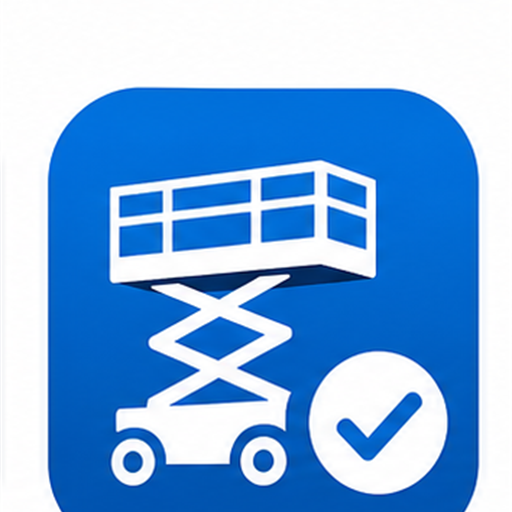
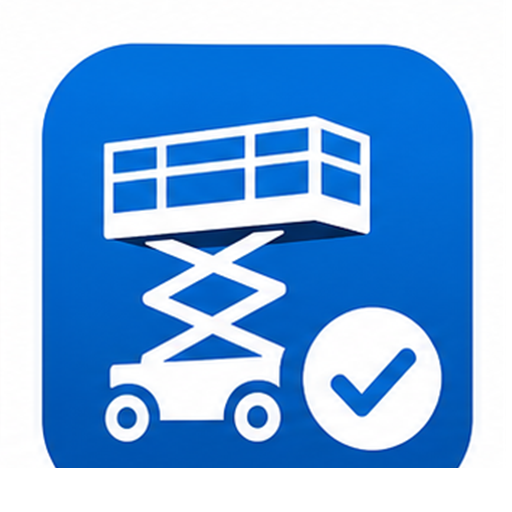
Fix revize wizard suggestions

diff --git a/index.html b/index.html
@@ -62,7 +62,7 @@ button{border:none;border-radius:14px;padding:11px 14px;cursor:pointer;font-weig
 input::placeholder, textarea::placeholder{color:#334155;font-weight:600;font-size:1rem;opacity:1} textarea{min-height:110px;resize:vertical}
 .suggest-wrap{position:relative}.suggest-box{position:absolute;left:0;right:0;top:calc(100% + 8px);border:1px solid var(--line);border-radius:14px;background:#fff;max-height:220px;overflow:auto;box-shadow:0 10px 24px rgba(15,23,42,.08);z-index:20}.suggest-item{padding:10px 12px;cursor:pointer;border-bottom:1px solid #eef2f7;font-size:.95rem}.suggest-item:last-child{border-bottom:none}.suggest-item:hover{background:#f8fbff}.helper{font-size:.8rem;color:var(--muted);margin-top:6px}
 .smart-suggest-wrap{position:relative;overflow:visible}.smart-suggest-box{position:absolute;left:0;right:0;top:calc(100% + 6px);display:none;max-height:168px;overflow:auto;-webkit-overflow-scrolling:touch;background:#fff;border:1px solid var(--line);border-radius:14px;box-shadow:0 12px 26px rgba(15,23,42,.18);z-index:[phone redacted]}.smart-suggest-box.show{display:block}.smart-suggest-box.mobile-floating{position:fixed!important;right:auto!important;top:auto;bottom:auto;z-index:[phone redacted]!important;max-height:180px!important}.smart-suggest-item{padding:10px 12px;border-bottom:1px solid #eef2f7;cursor:pointer;font-size:.92rem;line-height:1.25;background:#fff}.smart-suggest-item:last-child{border-bottom:none}.smart-suggest-item:hover{background:#f8fbff}.smart-suggest-muted{padding:9px 12px;color:var(--muted);font-size:.86rem}.field textarea + .smart-suggest-box{top:calc(100% + 6px)}body.dark .smart-suggest-box{background:#0f172a;border-color:var(--line)}body.dark .smart-suggest-item{background:#0f172a;border-bottom-color:#243244}body.dark .smart-suggest-item:hover{background:#172033}
-/* v1.6 / 5.157 – našeptávač přímo pod polem jako světlý oddělený seznam */
+/* v1.6 / 5.158 – našeptávač přímo pod polem jako světlý oddělený seznam */
 .smart-suggest-wrap{position:relative!important;overflow:visible!important}
 .smart-suggest-box{position:absolute!important;left:0!important;right:0!important;top:calc(100% + 6px)!important;bottom:auto!important;display:none;max-height:210px;overflow-y:auto;overflow-x:hidden;-webkit-overflow-scrolling:touch;background:#f1f5f9!important;border:1px solid #cbd5e1!important;border-radius:14px!important;box-shadow:0 14px 32px rgba(15,23,42,.18)!important;z-index:2147483647!important}
 .smart-suggest-box.show{display:block!important}
@@ -1536,7 +1536,7 @@ body.dark .part-handler-note-display{background:rgba(59,130,246,.12);border-colo
 
 
 
-/* v1.6 / 5.157: mobilní náhled protokolu bez vodorovného posouvání */
+/* v1.6 / 5.158: mobilní náhled protokolu bez vodorovného posouvání */
 @media (max-width: 700px){
   #preview .modal-content{
     width:100vw!important;
@@ -1675,11 +1675,12 @@ body.dark .part-handler-note-display{background:rgba(59,130,246,.12);border-colo
 .easter-game.playing .easter-start{display:none}
 @media(max-width:640px){.easter-hud{align-items:flex-start}.easter-title{font-size:.82rem}.easter-pill{font-size:.76rem;padding:6px 8px}.easter-close{left:14px;right:14px}}
 
-/* v1.6 / 5.157: Revize ZZ / PZP */
+/* v1.6 / 5.158: Revize ZZ / PZP */
 .revize-toolbar{display:flex;gap:10px;flex-wrap:wrap;align-items:center;margin:0 0 14px}.revize-toolbar .search{min-width:min(100%,280px)}
 .revize-archive-head{border:1px solid var(--line);background:linear-gradient(180deg,#f8fbff,#eef6ff);border-radius:10px;padding:10px 12px;margin:12px 0 10px}.dark .revize-archive-head{background:#111827}.revize-archive-head .step-title{margin:2px 0 3px;font-size:1.02rem}
 .revize-stepbar{display:flex;align-items:center;justify-content:space-between;gap:10px;border:1px solid var(--line);background:#f8fbff;border-radius:10px;padding:9px 11px;margin:0 0 12px}.dark .revize-stepbar{background:#111827}.revize-stepbar strong{font-size:.95rem}.revize-stepbar span{color:var(--muted);font-size:.82rem}.revize-step-controls{display:flex;gap:8px;align-items:center;justify-content:flex-end;flex-wrap:wrap}.revize-step-progress{min-width:72px;text-align:center;color:var(--muted);font-size:.85rem}.rz-hidden-step{display:none!important}
-.revize-wizard-modal .modal-content{width:min(100%,760px)}.revize-wizard-modal .revize-form{display:block;border:0;box-shadow:none;border-radius:0;margin:0;padding:22px;background:linear-gradient(180deg,#fff 0%,#f9fbff 100%)}.dark .revize-wizard-modal .revize-form{background:linear-gradient(180deg,#111827 0%,#0f172a 100%)}.revize-wizard-modal #revizeFormWrap>h3,.revize-wizard-modal #revizeFormWrap>.helper{display:none}.revize-wizard-modal .revize-form-grid{grid-template-columns:1fr}.revize-wizard-modal .revize-section-title{margin:0 0 10px;padding:0;border:0;background:transparent;color:var(--text);font-size:1.28rem;text-transform:none;letter-spacing:0}.dark .revize-wizard-modal .revize-section-title{background:transparent;color:var(--text)}.revize-wizard-modal .field{margin-top:0}.revize-wizard-modal .field label{display:none}.revize-wizard-modal .preview-actions{margin-top:18px}.revize-wizard-modal .revize-stepbar{margin-bottom:14px}.revize-wizard-placeholder{display:none}
+.revize-wizard-modal .modal-content{width:min(96vw,860px);max-height:min(94dvh,820px)}.revize-wizard-modal .revize-form{display:block;border:0;box-shadow:none;border-radius:0;margin:0;padding:22px;background:linear-gradient(180deg,#fff 0%,#f9fbff 100%)}.dark .revize-wizard-modal .revize-form{background:linear-gradient(180deg,#111827 0%,#0f172a 100%)}.revize-wizard-modal #revizeFormWrap>h3,.revize-wizard-modal #revizeFormWrap>.helper{display:none}.revize-wizard-modal .revize-form-grid{grid-template-columns:1fr}.revize-wizard-modal .revize-section-title{margin:0 0 10px;padding:0;border:0;background:transparent;color:var(--text);font-size:1.28rem;text-transform:none;letter-spacing:0}.dark .revize-wizard-modal .revize-section-title{background:transparent;color:var(--text)}.revize-wizard-modal .field{margin-top:0}.revize-wizard-modal .field label{display:none}.revize-wizard-modal .preview-actions{margin-top:18px}.revize-wizard-modal .revize-stepbar{margin-bottom:14px}.revize-wizard-placeholder{display:none}
+@media(max-width:640px){.revize-wizard-modal{padding:8px!important}.revize-wizard-modal .modal-content{width:100%;max-height:calc(100dvh - 16px)}.revize-wizard-modal .revize-form{padding:16px}.revize-wizard-modal .preview-actions-right{display:grid;grid-template-columns:1fr 1fr;width:100%}.revize-wizard-modal .preview-actions-right button{width:100%}}
 .revize-form{border:1px solid var(--line);background:#fff;border-radius:12px;padding:14px;margin:12px 0 16px;box-shadow:0 10px 28px rgba(15,47,95,.08)}
 .dark .revize-form{background:#0f172a}.revize-form-grid{display:grid;grid-template-columns:repeat(4,minmax(0,1fr));gap:10px}.revize-form-grid .wide{grid-column:span 2}.revize-form-grid .full{grid-column:1/-1}
 .revize-section-title{grid-column:1/-1;margin:8px 0 0;padding:7px 9px;border-left:4px solid var(--brand);background:#eff6ff;color:#0f2f5f;font-weight:900;font-size:.82rem;text-transform:uppercase;letter-spacing:.04em}.dark .revize-section-title{background:#172554;color:#dbeafe}
@@ -1687,7 +1688,7 @@ body.dark .part-handler-note-display{background:rgba(59,130,246,.12);border-colo
 @media(max-width:900px){.revize-form-grid{grid-template-columns:1fr}.revize-form-grid .wide{grid-column:auto}.revize-check-row{grid-template-columns:1fr}.revize-paper{width:100%;min-height:auto;padding:12px;box-shadow:none}.revize-toolbar .search{min-width:0;flex:1}}
 @media print{body.printing-revize header,body.printing-revize aside,body.printing-revize .container,body.printing-revize .preview-actions{display:none!important}.revize-paper{box-shadow:none;margin:0;padding:8mm;page-break-after:always}}
 
-/* v1.6 / 5.157: Revize ZZ tisknout jako přesné dvě čitelné A4 strany bez křížků/fajfek. */
+/* v1.6 / 5.158: Revize ZZ tisknout jako přesné dvě čitelné A4 strany bez křížků/fajfek. */
 .revize-paper{box-sizing:border-box;display:flex;flex-direction:column;gap:4px;min-height:297mm}
 .revize-paper table{table-layout:fixed;margin:0 0 4px;break-inside:avoid;page-break-inside:avoid}
 .revize-paper tr{break-inside:avoid;page-break-inside:avoid}
@@ -1707,7 +1708,7 @@ body.dark .part-handler-note-display{background:rgba(59,130,246,.12);border-colo
   .revize-paper:last-child{page-break-after:auto!important;break-after:auto!important}
 }
 
-/* v1.6 / 5.157: stable CSS icons, mobile overflow and cloud-save feedback */
+/* v1.6 / 5.158: stable CSS icons, mobile overflow and cloud-save feedback */
 html,body{max-width:100%;overflow-x:hidden;-webkit-text-size-adjust:100%}
 img,svg,canvas,video{max-width:100%}
 .container,.page-section,.modal,.modal-content,.wizard-shell,.preview-shell,#content,.field,.suggest-wrap,.wizard-actions,.preview-actions,.preview-actions-left,.preview-actions-right{max-width:100%;min-width:0;box-sizing:border-box}
@@ -1720,13 +1721,13 @@ input,textarea,select,button{max-width:100%;min-width:0;box-sizing:border-box}
 .mark-box{width:14px;height:14px;border:1.7px solid #111;border-radius:2px;vertical-align:middle;position:relative;background:#fff}.mark-box.checked{background:#111}
 @media(max-width:640px){.modal{align-items:flex-start;justify-content:center;overflow-y:auto;-webkit-overflow-scrolling:touch;padding:calc(env(safe-area-inset-top,0px) + 10px) max(8px,env(safe-area-inset-right)) calc(env(safe-area-inset-bottom,0px) + 12px) max(8px,env(safe-area-inset-left))}.modal-content{width:100%;max-height:none!important;overflow:visible!important;border-radius:16px}.wizard-shell,.preview-shell{padding:16px}.wizard-actions{position:sticky;bottom:0;z-index:4;margin-left:-16px;margin-right:-16px;padding:14px 16px calc(env(safe-area-inset-bottom,0px) + 8px);background:linear-gradient(180deg,rgba(255,255,255,0) 0%,var(--panel) 22%)}.wizard-actions>div{display:grid!important;grid-template-columns:minmax(0,1fr) minmax(0,1fr);width:100%}.wizard-actions button{min-height:46px}#preview.modal.show{display:block!important;overflow-y:auto!important;-webkit-overflow-scrolling:touch!important;align-items:initial!important;justify-content:initial!important}#preview .modal-content{margin:0 auto 20px;max-height:none!important;overflow:visible!important}#preview .preview-shell,#preview .paper-wrap,#previewBody{overflow:visible!important;max-height:none!important}#preview .paper-page{min-height:auto!important;height:auto!important;overflow:visible!important;padding:8mm 5mm!important}.home-machine-search-row,.toolbar-right{min-width:0}.search,.filter{min-width:0;width:100%}}
 
-/* v1.6 / 5.157: náhled protokolu se na PC i mobilu posouvá celým oknem náhledu, ne zamčeným vnitřním panelem. */
+/* v1.6 / 5.158: náhled protokolu se na PC i mobilu posouvá celým oknem náhledu, ne zamčeným vnitřním panelem. */
 #preview.modal.show{display:block!important;align-items:initial!important;justify-content:initial!important;height:100dvh!important;max-height:100dvh!important;overflow-y:auto!important;overflow-x:hidden!important;-webkit-overflow-scrolling:touch!important;overscroll-behavior:contain!important;padding:18px!important;z-index:120!important}
 #preview .modal-content{margin:0 auto 24px!important;max-height:none!important;overflow:visible!important}
 #preview .preview-shell,#previewBody{max-height:none!important;overflow:visible!important}
 #preview .paper-wrap{max-height:none!important;overflow-x:auto!important;overflow-y:visible!important;-webkit-overflow-scrolling:touch}
 
-/* v1.6 / 5.157: hlavní obrazovka musí zůstat posuvná kolečkem myši i po zavření náhledů a her. */
+/* v1.6 / 5.158: hlavní obrazovka musí zůstat posuvná kolečkem myši i po zavření náhledů a her. */
 html,body{height:auto!important;min-height:100%!important;overflow-y:auto!important}
 body{position:relative!important}
 
@@ -1778,7 +1779,7 @@ body{position:relative!important}
     <button type="button" class="side-small" onclick="exportBackup()">Export zálohy</button>
     <button type="button" class="side-small" id="sideImportBtn">Import zálohy</button>
     <button type="button" class="side-small" id="sideAuditBtn">Historie změn</button>
-    <div class="side-version">Vlastník/Admin: Jan Bartoš<br>Verze: 1.6 / 5.157</div>
+    <div class="side-version">Vlastník/Admin: Jan Bartoš<br>Verze: 1.6 / 5.158</div>
   </div>
 </aside>
 
@@ -2851,7 +2852,7 @@ async function exportBackup(){
     }
     const payload = {
       app: 'LiftControl CZ',
-      appVersion: '1.6 / 5.157',
+      appVersion: '1.6 / 5.158',
       backupType: 'complete',
       schemaVersion: 2,
       exportedAt: new Date().toISOString(),
@@ -3171,21 +3172,22 @@ function addMonthsToDate(dateStr, months=3){ const [y,m,dayRaw]=String(dateStr |
 function escapeHtml(v=''){ return String(v).replace(/[&<>"']/g, s => ({'&':'&amp;','<':'&lt;','>':'&gt;','"':'&quot;',"'":'&#39;'}[s])); }
 function addSuggestion(key,val){ const clean = String(val||'').trim(); if(!clean || clean.length < 2) return; suggestionsStore[key] = suggestionsStore[key] || []; if(!suggestionsStore[key].includes(clean)) suggestionsStore[key].unshift(clean); suggestionsStore[key] = suggestionsStore[key].slice(0,20); }
 function getSuggestions(key,fallback=[]){ return [...new Set([...(suggestionsStore[key]||[]), ...fallback])]; }
+function normalizeSearchText(v){
+  return String(v||'').toLowerCase().normalize('NFD').replace(/[\u0300-\u036f]/g,'').replace(/\s+/g,'').trim();
+}
 function filterSuggestions(items,q){
-  q = String(q||'').trim().toLowerCase();
+  q = String(q||'').trim();
   if(!q) return [];
 
-  const normalize = (v) => String(v||'').toLowerCase().replace(/\s+/g,'').trim();
   const seen = new Set();
   const out = [];
-  const queryCompact = normalize(q);
+  const queryCompact = normalizeSearchText(q);
 
   for(const item of items){
     const raw = String(item||'');
-    const rawLower = raw.toLowerCase();
-    const rawCompact = normalize(raw);
+    const rawCompact = normalizeSearchText(raw);
 
-    if(!(rawLower.includes(q) || rawCompact.includes(queryCompact))) continue;
+    if(!rawCompact.includes(queryCompact)) continue;
     if(seen.has(rawCompact)) continue;
 
     seen.add(rawCompact);
@@ -3414,10 +3416,10 @@ installMainWheelScroll();
 function openWizard(editId=null, prefill={}){
   protocolSaveInProgress = false;
   if(els.nextBtn) els.nextBtn.disabled = false;
-  rec = editId ? JSON.parse(JSON.stringify(data.find(r=>r.id===editId) || {id:uid()})) : {id:uid(), cLogic:'legacy', appVersion:'1.6 / 5.157'};
+  rec = editId ? JSON.parse(JSON.stringify(data.find(r=>r.id===editId) || {id:uid()})) : {id:uid(), cLogic:'legacy', appVersion:'1.6 / 5.158'};
   rec = Object.assign({}, rec, prefill || {});
   if(!editId && !rec.cLogic) rec.cLogic = 'legacy';
-  if(!editId && !rec.appVersion) rec.appVersion = '1.6 / 5.157';
+  if(!editId && !rec.appVersion) rec.appVersion = '1.6 / 5.158';
 
   // Auto doplneni z historie podle vyrobniho cisla.
   if(rec.vc){
@@ -3841,7 +3843,7 @@ async function nextStep(){
     syncRevizeIssue(rec);
     syncModelPreferences(rec);
     if(!rec.cLogic) rec.cLogic = 'legacy';
-    if(!rec.appVersion) rec.appVersion = '1.6 / 5.157';
+    if(!rec.appVersion) rec.appVersion = '1.6 / 5.158';
     if(!rec.enteredBy) rec.enteredBy = rec.technik || getEnteredByDefault();
     setLastEnteredBy(rec.enteredBy);
     rec.savedAt = new Date().toISOString();
@@ -3873,7 +3875,7 @@ function openPreviewById(id){
 function closePreview(){
   closeModal(els.preview);
 }
-/* v1.6 / 5.157: tisk protokolu přes samostatnou čistou tiskovou stránku. */
+/* v1.6 / 5.158: tisk protokolu přes samostatnou čistou tiskovou stránku. */
 
 function downloadById(id){
   const record = data.find(r => r.id === id);
@@ -3908,7 +3910,7 @@ async function logAuditAction(action, entity, record, by, detail){
       serial: record?.vc || record?.serial || '',
       type: record?.typ || record?.type || '',
       createdAt: new Date().toISOString(),
-      appVersion: '1.6 / 5.157'
+      appVersion: '1.6 / 5.158'
     };
     const rows = loadLocalAudit();
     rows.unshift(item);
@@ -4601,7 +4603,7 @@ async function printCurrent(){
     return;
   }
 
-  // v1.6 / 5.157: Přímý tisk z modalu i PDF generování přes html2pdf v některých prohlížečích vracelo prázdnou stránku.
+  // v1.6 / 5.158: Přímý tisk z modalu i PDF generování přes html2pdf v některých prohlížečích vracelo prázdnou stránku.
   // Proto se protokol otevře jako samostatná čistá tisková stránka s vlastním CSS. Tisk se spustí až z této viditelné stránky.
   els.previewBody.innerHTML = renderPaper(currentPreview);
   const element = els.previewBody.querySelector('.paper');
@@ -4617,7 +4619,7 @@ async function printCurrent(){
 <title>${escapeHtml(fileBase)} - tisk protokolu</title>
 <style>${getPrintStyles()}
 
-/* v1.6 / 5.157: mobilní náhled protokolu bez vodorovného posouvání */
+/* v1.6 / 5.158: mobilní náhled protokolu bez vodorovného posouvání */
 @media (max-width: 700px){
   #preview .modal-content{
     width:100vw!important;
@@ -5172,7 +5174,7 @@ async function saveWorkPlanFromForm(){
       place,
       extraPlaces,
       note,
-      appVersion:'1.6 / 5.157'
+      appVersion:'1.6 / 5.158'
     });
     if(!record.createdAt) record.createdAt = new Date().toISOString();
     await saveWorkPlan(record);
@@ -5810,7 +5812,7 @@ async function saveFaultFromForm(){
       inService: status === 'service' ? true : (existing ? !!existing.inService : false),
       waitingParts: status === 'waiting_parts' ? true : (existing ? !!existing.waitingParts : false),
       photos: currentFaultPhotos,
-      appVersion:'1.6 / 5.157'
+      appVersion:'1.6 / 5.158'
     });
     if(!record.createdAt) record.createdAt = new Date().toISOString();
     setLastEnteredBy(record.enteredBy);
@@ -6095,7 +6097,7 @@ body.dark .audit-item{background:var(--panel2)}
 body.dark .part-handler-note-display{background:rgba(59,130,246,.12);border-color:rgba(96,165,250,.35)}
 
 
-/* v1.6 / 5.157: mobilní náhled protokolu bez vodorovného posouvání */
+/* v1.6 / 5.158: mobilní náhled protokolu bez vodorovného posouvání */
 @media (max-width: 700px){
   #preview .modal-content{
     width:100vw!important;
@@ -6679,7 +6681,7 @@ async function savePartFromForm(){
       orderedAt: (statusVal === 'ordered' || statusVal === 'sent' || statusVal === 'resolved') ? ((existing && existing.orderedAt) || new Date().toISOString()) : '',
       sentAt: (statusVal === 'sent' || statusVal === 'resolved') ? ((existing && existing.sentAt) || new Date().toISOString()) : '',
       resolvedAt: statusVal === 'resolved' ? ((existing && existing.resolvedAt) || new Date().toISOString()) : '',
-      appVersion:'1.6 / 5.157'
+      appVersion:'1.6 / 5.158'
     });
     record.photos = JSON.parse(JSON.stringify(currentPartPhotos || []));
     record.photo = record.photos[0] || null;
@@ -6766,7 +6768,7 @@ async function markPartResolved(id){
 }
 
 
-/* v1.6 / 5.157: Revize ZZ / PZP */
+/* v1.6 / 5.158: Revize ZZ / PZP */
 const REVIZE_DEVICE_TYPES = {
   scissor:{label:'Nůžková plošina', druh:'samohybná nůžková zdvihací pracovní plošina', skupina:'A/3', use:['rozmer_plosiny','deck'], skip:['bocni_dosah']},
   articulated:{label:'Kloubová plošina', druh:'samohybná kloubová zdvihací pracovní plošina', skupina:'B/3', use:['bocni_dosah','rameno','teleskop','rotace_kose','otoc']},
@@ -6829,7 +6831,7 @@ function saveLocalRevize(rows){ try { localStorage.setItem('revize_zz_local', JS
 function revizeNextNumber(){ const year2=String(new Date().getFullYear()).slice(-2); const nums=(revizeData||[]).map(r=>String(r.protokol||'').match(/(\d+)\s*RZ\s*\/\s*\d{2,4}/i)?.[1]).filter(Boolean).map(Number); const max=Math.max(0,...nums); return `${max+1}RZ/${year2}`; }
 function revizeDefaultMeter(){ try{ return localStorage.getItem('revize_last_meter') || 'Přístroj: REVEX plus v.č.011134 kal.do 1.6.2026, Eurotest XE v.č.17200404 kal.do 1.7.2027'; }catch(e){ return 'Přístroj: REVEX plus v.č.011134 kal.do 1.6.2026, Eurotest XE v.č.17200404 kal.do 1.7.2027'; } }
 function revizeMeterInfo(text){ const s=String(text||''); const ev=[...s.matchAll(/v\.?\s*č\.?\s*[:.]?\s*([A-Za-z0-9/.-]+)/gi)].map(m=>m[1]); const kal=[...s.matchAll(/kal\.?\s*do\s*([0-9]{1,2}\.[0-9]{1,2}\.[0-9]{2,4})/gi)].map(m=>m[1]); return {ev:ev.join(', '), kalibrace:kal.join(', ')}; }
-function revizeDefaultRecord(){ const d=todayLocal(); const meter=revizeDefaultMeter(); const mi=revizeMeterInfo(meter); return {id:uid(),protokol:revizeNextNumber(),datum_kontroly:d,platnost:addMonthsToDate(d,12),druh_kontroly:'Pravidelná',provozovatel:'Zeppelin CZ s.r.o.',umisteni:'',typ_zarizeni:'scissor',skupina:'A/3',typ:'Nůžková plošina',rt_jmeno:'Jan Bartoš',rt_zz_osvedceni:'0918/6/22/R,Z-ZZ-c',rt_zz_opravneni:'ev.č. 38/22/ZZ-M,O,R,Z-b,b1',rt_ez:'',rt_ez_osvedceni:'ev.č.EL: 0171/1/22/R-EZ-E2A',pristroj:meter,pristroj_ev:mi.ev,kalibrace:mi.kalibrace,checks:{},notes:{},electro:{},zavady:'',termin_odstraneni:'',predal:'Jan Bartoš',prevzal:'Petr Čáp',norma:'',normy_revize:revizeDefaultNormy(),createdAt:new Date().toISOString(),appVersion:'1.6 / 5.157'}; }
+function revizeDefaultRecord(){ const d=todayLocal(); const meter=revizeDefaultMeter(); const mi=revizeMeterInfo(meter); return {id:uid(),protokol:revizeNextNumber(),datum_kontroly:d,platnost:addMonthsToDate(d,12),druh_kontroly:'Pravidelná',provozovatel:'Zeppelin CZ s.r.o.',umisteni:'',typ_zarizeni:'scissor',skupina:'A/3',typ:'Nůžková plošina',rt_jmeno:'Jan Bartoš',rt_zz_osvedceni:'0918/6/22/R,Z-ZZ-c',rt_zz_opravneni:'ev.č. 38/22/ZZ-M,O,R,Z-b,b1',rt_ez:'',rt_ez_osvedceni:'ev.č.EL: 0171/1/22/R-EZ-E2A',pristroj:meter,pristroj_ev:mi.ev,kalibrace:mi.kalibrace,checks:{},notes:{},electro:{},zavady:'',termin_odstraneni:'',predal:'Jan Bartoš',prevzal:'Petr Čáp',norma:'',normy_revize:revizeDefaultNormy(),createdAt:new Date().toISOString(),appVersion:'1.6 / 5.158'}; }
 function revizeResult(r){ const answers = Object.values(r.checks||{}); const electro = Object.values(r.electro||{}).map(x=>x?.ok).filter(Boolean); const hasNo = [...answers,...electro].includes('NE'); const overdue = r.platnost && daysUntilDate(r.platnost) < 0; return (hasNo || overdue || String(r.vysledek||'').toUpperCase()==='NEVYHOVUJE') ? 'NEVYHOVUJE' : 'VYHOVUJE'; }
 function setRevizeMode(mode){ revizeMode = mode === 'archive' ? 'archive' : 'new'; const title=document.getElementById('revizeListTitle'); const hint=document.getElementById('revizeListHint'); const kicker=document.getElementById('revizeModeKicker'); if(kicker) kicker.textContent = revizeMode === 'archive' ? 'HOTOVÉ RZ' : 'ARCHIV RZ'; if(title) title.textContent = revizeMode === 'archive' ? 'Hotové RZ - archiv revizních protokolů' : 'Hotové RZ - uložené revizní protokoly'; if(hint) hint.textContent = 'Uložené revizní protokoly ZZ jsou oddělené od čtvrtletních kontrol, hlášení poruch a hlavního přehledu.'; }
 function openRevizeModal(mode='new'){ setRevizeMode(mode); showSection(mode === 'archive' ? 'revizeArchive' : 'revize'); if(mode === 'archive') closeRevizeForm(); renderRevize(); }
@@ -6888,6 +6890,17 @@ function serialMatchesCandidate(serial, candidate){
   const rs=normalizeSerial(candidate);
   return !!s && !!rs && (rs===s || (s.length>=3 && rs.endsWith(s)) || (rs.length>=3 && s.endsWith(rs)));
 }
+function normalizeBranchAddress(value, owner=''){
+  const raw = String(value||'').trim();
+  const company = String(owner||'').trim() || 'Zeppelin CZ s.r.o.';
+  if(!raw) return '';
+  const compact = normalizeSearchText(raw);
+  if(compact.includes('jazlovice') || compact.includes('zdebradska')) return `${company} – Zděbradská 57, 251 01 Jažlovice`;
+  return raw.replace(/\s+-\s+|\s+–\s+/, ' – ').replace(/\s*,\s*/g, ', ').replace(/\s{2,}/g, ' ');
+}
+function revizeFieldSourceKey(field){
+  return {vyrobni_cislo:'serial',evidencni_cislo:'evidencni',vyrobce:'maker',model:'model',rok_vyroby:'year',skupina:'group',umisteni:'place',provozovatel:'owner',norma:'norma',normy_revize:'normyRevize',hmotnost:'weight',nosnost:'capacity',pracovni_vyska:'workHeight',vyska_podlahy:'floorHeight',rozmer_plosiny:'platform',bocni_dosah:'reach',naklon:'tilt',pohon:'drive',napajeni:'power',stabilizatory:'stabilizers',deck:'deck',nabijec:'charger',zasuvka_kos:'socket',rcd:'rcd'}[field] || '';
+}
 function revizeLatestMachine(serial){
   const s=normalizeSerial(serial);
   if(!s) return null;
@@ -6905,16 +6918,31 @@ function revizeLatestMachine(serial){
     rows=all.filter(r=>normalizeSerial(r.serial)===s);
     if(!rows.length && s.length>=3) rows=all.filter(r=>{ const rs=normalizeSerial(r.serial); return rs.endsWith(s) || (rs.length>=3 && s.endsWith(rs)); });
   }
-  rows.sort((a,b)=>String(b.created||'').localeCompare(String(a.created||'')));
+  rows.sort((a,b)=>{
+    const ax=normalizeSerial(a.serial)===s ? 1 : 0;
+    const bx=normalizeSerial(b.serial)===s ? 1 : 0;
+    if(ax!==bx) return bx-ax;
+    return String(b.created||'').localeCompare(String(a.created||''));
+  });
   if(!rows.length) return null;
   const merged={};
   rows.forEach(r=>Object.keys(r||{}).forEach(k=>{ if((merged[k]===undefined || merged[k]==='' || merged[k]===null) && r[k]!==undefined && r[k]!==null && String(r[k]).trim()) merged[k]=r[k]; }));
   merged.serial = rows[0].serial || merged.serial;
+  if(merged.place) merged.place = normalizeBranchAddress(merged.place, merged.owner);
   return merged;
 }
 function revizeSuggestValues(field){ const rows=revizeMachineRows(); const values=[]; const add=v=>{ if(v!==undefined && v!==null && String(v).trim()) values.push(String(v).trim()); };
+  const currentSerial = document.getElementById('rz_vyrobni_cislo')?.value || window.currentRevizeDraft?.vyrobni_cislo || '';
+  const exact = revizeLatestMachine(currentSerial);
+  const exactKey = revizeFieldSourceKey(field);
+  if(exact && exactKey){
+    let exactValue = exact[exactKey];
+    if(field==='model' && !exactValue) exactValue = exact.type;
+    if(field==='umisteni') exactValue = normalizeBranchAddress(exactValue, exact.owner);
+    if(exactValue !== undefined && exactValue !== null && String(exactValue).trim()) return [String(exactValue).trim()];
+  }
   const map={vyrobni_cislo:'serial',evidencni_cislo:'evidencni',vyrobce:'maker',model:'model',rok_vyroby:'year',skupina:'group',umisteni:'place',provozovatel:'owner',norma:'norma',normy_revize:'normyRevize',hmotnost:'weight',nosnost:'capacity',pracovni_vyska:'workHeight',vyska_podlahy:'floorHeight',rozmer_plosiny:'platform',bocni_dosah:'reach',naklon:'tilt',pohon:'drive',napajeni:'power',stabilizatory:'stabilizers',deck:'deck',nabijec:'charger',zasuvka_kos:'socket',rcd:'rcd'};
-  rows.forEach(r=>{ const key=map[field]; if(key) add(r[key]); if(field==='model') add(r.type); });
+  rows.forEach(r=>{ const key=map[field]; if(key) add(field==='umisteni' ? normalizeBranchAddress(r[key], r.owner) : r[key]); if(field==='model') add(r.type); });
   (revizeData||[]).forEach(r=>add(r[field]));
   if(['stabilizatory','deck','nabijec','zasuvka_kos','rcd'].includes(field)){ add('ANO'); add('NE'); }
   return [...new Set(values)].slice(0,60);
@@ -6949,7 +6977,7 @@ function applyRevizeDefaultsFromSerial(serial){
     if(!info) return;
     window.revizeApplyingDefaults = true;
     const set=(id,val,force=false)=>{ const el=document.getElementById(id); if(!el || val===undefined || val===null || !String(val).trim()) return; const cur=String(el.value||'').trim(); if(force || !cur || el.dataset.rzAuto==='1'){ el.value=String(val).trim(); el.dataset.rzAuto='1'; } };
-    set('rz_vyrobce', info.maker); set('rz_norma', info.norma); set('rz_normy_revize', info.normyRevize||revizeDefaultNormy(info.norma)); set('rz_model', info.model||info.type); set('rz_evidencni_cislo', info.evidencni); set('rz_rok_vyroby', info.year); set('rz_skupina', info.group); set('rz_umisteni', info.place); set('rz_provozovatel', info.owner); set('rz_hmotnost', info.weight); set('rz_nosnost', info.capacity); set('rz_pracovni_vyska', info.workHeight); set('rz_vyska_podlahy', info.floorHeight); set('rz_rozmer_plosiny', info.platform); set('rz_bocni_dosah', info.reach); set('rz_naklon', info.tilt); set('rz_pohon', info.drive); set('rz_napajeni', info.power); set('rz_stabilizatory', info.stabilizers); set('rz_deck', info.deck); set('rz_nabijec', info.charger); set('rz_zasuvka_kos', info.socket); set('rz_rcd', info.rcd);
+    set('rz_vyrobni_cislo', info.serial || serial, true); set('rz_vyrobce', info.maker); set('rz_norma', info.norma); set('rz_normy_revize', info.normyRevize||revizeDefaultNormy(info.norma)); set('rz_model', info.model||info.type); set('rz_evidencni_cislo', info.evidencni); set('rz_rok_vyroby', info.year); set('rz_skupina', info.group); set('rz_umisteni', normalizeBranchAddress(info.place, info.owner)); set('rz_provozovatel', info.owner); set('rz_hmotnost', info.weight); set('rz_nosnost', info.capacity); set('rz_pracovni_vyska', info.workHeight); set('rz_vyska_podlahy', info.floorHeight); set('rz_rozmer_plosiny', info.platform); set('rz_bocni_dosah', info.reach); set('rz_naklon', info.tilt); set('rz_pohon', info.drive); set('rz_napajeni', info.power); set('rz_stabilizatory', info.stabilizers); set('rz_deck', info.deck); set('rz_nabijec', info.charger); set('rz_zasuvka_kos', info.socket); set('rz_rcd', info.rcd);
     ['stabilizatory','deck','nabijec','zasuvka_kos','rcd'].forEach(k=>{ const el=document.getElementById('rz_'+k); if(el && (el.dataset.rzAuto==='1' || !String(el.value||'').trim())) el.value=revizeYesNoValue(el.value); });
     const type=document.getElementById('rz_typ_zarizeni'); const inferredType=info.deviceType||inferRevizeDeviceType([info.type,info.model].filter(Boolean).join(' ')); if(type && inferredType && REVIZE_DEVICE_TYPES[inferredType] && (!type.value || type.value==='scissor' || type.dataset.rzAuto==='1')){ type.value=inferredType; type.dataset.rzAuto='1'; }
     syncNormaFromRokVyroby(false);
@@ -7037,15 +7065,25 @@ function attachRevizeSuggestInput(input, getItems, onPick){
     const all=uniqueNonEmpty(getItems ? getItems() : []);
     const items=(q ? filterSuggestions(all,q) : all).slice(0,8);
     if(!items.length){ close(); return; }
-    box.innerHTML=items.map(v=>`<div class="smart-suggest-item" data-value="${escapeHtml(v)}">${escapeHtml(v)}</div>`).join('');
+    box.innerHTML=items.map(v=>`<div class="smart-suggest-item" role="option" tabindex="-1" data-value="${escapeHtml(v)}">${escapeHtml(v)}</div>`).join('');
     box.classList.add('show');
-    box.querySelectorAll('.smart-suggest-item').forEach(item=>item.onpointerdown=ev=>{
+    let pickedAt = 0;
+    const pick=(item, ev)=>{
       ev.preventDefault(); ev.stopPropagation();
+      const now = Date.now();
+      if(now - pickedAt < 250) return;
+      pickedAt = now;
       input.value=item.dataset.value||'';
+      input.dataset.rzAuto='0';
       input.dispatchEvent(new Event('input',{bubbles:true}));
       input.dispatchEvent(new Event('change',{bubbles:true}));
       close();
       if(typeof onPick==='function') onPick(input.value);
+      safeCollectRevizeDraft('revize suggest pick');
+      try{ input.focus({preventScroll:true}); }catch(_e){ input.focus(); }
+    };
+    box.querySelectorAll('.smart-suggest-item').forEach(item=>{
+      ['pointerdown','mousedown','touchstart','click'].forEach(type=>item.addEventListener(type, ev=>pick(item, ev), {passive:false}));
     });
   };
   input.addEventListener('input', ()=>{ if(!window.revizeApplyingDefaults) input.dataset.rzAuto='0'; open(); });
@@ -7098,7 +7136,7 @@ async function syncQuarterlyAfterRevize(r){
   last.typ=last.typ||r.model||r.typ||'';
   last.rok=last.rok||r.rok_vyroby||'';
   last.umisteni=r.umisteni||last.umisteni||'';
-  last.appVersion='1.6 / 5.157';
+  last.appVersion='1.6 / 5.158';
   const replaceByIdOrSerial=(arr, updated)=>{
     const idx=(arr||[]).findIndex(x=>(updated.id && x.id===updated.id) || matchesSerial(x));
     if(idx>=0) arr[idx]={...arr[idx],...updated};
@@ -7126,7 +7164,7 @@ function renderRevizeForm(r){ const type = r.typ_zarizeni || 'scissor'; const de
 function revizeFieldLabel(k){ return ({hmotnost:'Hmotnost',nosnost:'Nosnost',pracovni_vyska:'Pracovní výška',vyska_podlahy:'Výška podlahy',rozmer_plosiny:'Rozměr plošiny',bocni_dosah:'Boční dosah',naklon:'Max. náklon',staticka_zatez:'Statická zátěž 125 %',dynamicka_zatez:'Dynamická zátěž 110 %',pohon:'Pohon',napajeni:'Napájení',stabilizatory:'Stabilizátory',deck:'Výsuvný deck',nabijec:'Nabíječ',zasuvka_kos:'Zásuvka v koši',rcd:'RCD'})[k]||k; }
 function revizeCheckRows(items,r,prefix){ return items.map(([k,l])=>{ const v=(r.checks||{})[k]||'ANO'; const n=(r.notes||{})[k]||''; return `<div class="revize-check-row"><strong>${escapeHtml(l)}</strong><div class="yesno"><button type="button" class="yn-btn ${v==='ANO'?'yes active':'yes'}" data-rz-check="${k}" data-rz-val="ANO">ANO</button><button type="button" class="yn-btn ${v==='NE'?'no active':'no'}" data-rz-check="${k}" data-rz-val="NE">NE</button></div><input data-rz-note="${k}" value="${escapeHtml(n)}" placeholder="Poznámka / opatření"></div>`; }).join(''); }
 function revizeElectroTable(r){ return `<table class="revize-mini-table"><thead><tr><th>Měřená část</th><th>Hodnota</th><th>Vyhovuje</th><th>Poznámka</th></tr></thead><tbody>${REVIZE_ELECTRO.map(([k,l,u])=>{ const e=(r.electro||{})[k]||{}; return `<tr><td>${escapeHtml(l)}</td><td><input data-rz-electro-val="${k}" value="${escapeHtml(e.value||'')}" placeholder="${escapeHtml(u)}"></td><td><select data-rz-electro-ok="${k}"><option ${e.ok==='ANO'?'selected':''}>ANO</option><option ${e.ok==='NE'?'selected':''}>NE</option></select></td><td><input data-rz-electro-note="${k}" value="${escapeHtml(e.note||'')}"></td></tr>`; }).join('')}</tbody></table>`; }
-function collectRevizeDraft(){ syncRevizeMeterFields(); const r=window.currentRevizeDraft||revizeDefaultRecord(); ['protokol','datum_kontroly','platnost','druh_kontroly','provozovatel','umisteni','typ_zarizeni','vyrobce','model','vyrobni_cislo','evidencni_cislo','rok_vyroby','norma','normy_revize','skupina','hmotnost','nosnost','pracovni_vyska','vyska_podlahy','rozmer_plosiny','bocni_dosah','naklon','staticka_zatez','dynamicka_zatez','pohon','napajeni','stabilizatory','deck','nabijec','zasuvka_kos','rcd','rt_jmeno','rt_zz_osvedceni','rt_zz_opravneni','rt_ez_osvedceni','pristroj','pristroj_ev','kalibrace','zavady','predal','prevzal'].forEach(k=>{ const el=document.getElementById('rz_'+k); if(el) r[k]=el.value; }); if(!String(r.normy_revize||'').trim()) r.normy_revize=revizeDefaultNormy(r.norma); delete r.typ_kol; delete r.pothole; delete r.rt_ez; delete r.termin_odstraneni; const cfg=REVIZE_DEVICE_TYPES[r.typ_zarizeni]||REVIZE_DEVICE_TYPES.scissor; r.typ=cfg.label; r.checks=r.checks||{}; r.notes=r.notes||{}; document.querySelectorAll('[data-rz-check].active').forEach(b=>r.checks[b.dataset.rzCheck]=b.dataset.rzVal); document.querySelectorAll('[data-rz-note]').forEach(i=>r.notes[i.dataset.rzNote]=i.value); r.electro=r.electro||{}; REVIZE_ELECTRO.forEach(([k])=>{ r.electro[k]={value:document.querySelector(`[data-rz-electro-val="${k}"]`)?.value||'',ok:document.querySelector(`[data-rz-electro-ok="${k}"]`)?.value||'ANO',note:document.querySelector(`[data-rz-electro-note="${k}"]`)?.value||''}; }); r.vysledek=revizeResult(r); r.updatedAt=new Date().toISOString(); r.appVersion='1.6 / 5.157'; try{ if(r.pristroj) localStorage.setItem('revize_last_meter', r.pristroj); }catch(e){} window.currentRevizeDraft=r; return r; }
+function collectRevizeDraft(){ syncRevizeMeterFields(); const r=window.currentRevizeDraft||revizeDefaultRecord(); ['protokol','datum_kontroly','platnost','druh_kontroly','provozovatel','umisteni','typ_zarizeni','vyrobce','model','vyrobni_cislo','evidencni_cislo','rok_vyroby','norma','normy_revize','skupina','hmotnost','nosnost','pracovni_vyska','vyska_podlahy','rozmer_plosiny','bocni_dosah','naklon','staticka_zatez','dynamicka_zatez','pohon','napajeni','stabilizatory','deck','nabijec','zasuvka_kos','rcd','rt_jmeno','rt_zz_osvedceni','rt_zz_opravneni','rt_ez_osvedceni','pristroj','pristroj_ev','kalibrace','zavady','predal','prevzal'].forEach(k=>{ const el=document.getElementById('rz_'+k); if(el) r[k]=el.value; }); if(!String(r.normy_revize||'').trim()) r.normy_revize=revizeDefaultNormy(r.norma); delete r.typ_kol; delete r.pothole; delete r.rt_ez; delete r.termin_odstraneni; const cfg=REVIZE_DEVICE_TYPES[r.typ_zarizeni]||REVIZE_DEVICE_TYPES.scissor; r.typ=cfg.label; r.checks=r.checks||{}; r.notes=r.notes||{}; document.querySelectorAll('[data-rz-check].active').forEach(b=>r.checks[b.dataset.rzCheck]=b.dataset.rzVal); document.querySelectorAll('[data-rz-note]').forEach(i=>r.notes[i.dataset.rzNote]=i.value); r.electro=r.electro||{}; REVIZE_ELECTRO.forEach(([k])=>{ r.electro[k]={value:document.querySelector(`[data-rz-electro-val="${k}"]`)?.value||'',ok:document.querySelector(`[data-rz-electro-ok="${k}"]`)?.value||'ANO',note:document.querySelector(`[data-rz-electro-note="${k}"]`)?.value||''}; }); r.vysledek=revizeResult(r); r.updatedAt=new Date().toISOString(); r.appVersion='1.6 / 5.158'; try{ if(r.pristroj) localStorage.setItem('revize_last_meter', r.pristroj); }catch(e){} window.currentRevizeDraft=r; return r; }
 async function saveRevizeFromForm(){
   if(revizeSaveInProgress) return;
   const r=collectRevizeDraft();

diff --git a/sw.js b/sw.js
@@ -1,4 +1,4 @@
-const CACHE_NAME = 'liftcontrol-cz-v1-6-5-157';
+const CACHE_NAME = 'liftcontrol-cz-v1-6-5-158';
 const APP_SHELL = [
   './',
   './index.html',